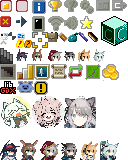
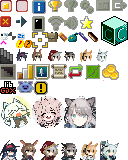
와드랑 아이템
ㅇㅇ

Changed region(s): [[0.5938, 0.3125, 0.8438, 0.4062], [0.0, 0.25, 0.0625, 0.2812]]

diff --git a/Arrrknights/core/src/main/java/com/shatteredpixel/shatteredpixeldungeon/sprites/WardSprite.java b/Arrrknights/core/src/main/java/com/shatteredpixel/shatteredpixeldungeon/sprites/WardSprite.java
@@ -20,22 +20,22 @@ public class WardSprite extends MobSprite {
 		texture(Assets.Sprites.WARDS);
 
 		tierIdles[1] = new Animation( 1, true );
-		tierIdles[1].frames(texture.uvRect(0, 0, 9, 10));
+		tierIdles[1].frames(texture.uvRect(0, 0, 32, 32));
 
 		tierIdles[2] = new Animation( 1, true );
-		tierIdles[2].frames(texture.uvRect(10, 0, 21, 12));
+		tierIdles[2].frames(texture.uvRect(32, 0, 64, 32));
 
 		tierIdles[3] = new Animation( 1, true );
-		tierIdles[3].frames(texture.uvRect(22, 0, 37, 16));
+		tierIdles[3].frames(texture.uvRect(64, 0, 96, 32));
 
 		tierIdles[4] = new Animation( 1, true );
-		tierIdles[4].frames(texture.uvRect(38, 0, 44, 13));
+		tierIdles[4].frames(texture.uvRect(96, 0, 128, 32));
 
 		tierIdles[5] = new Animation( 1, true );
-		tierIdles[5].frames(texture.uvRect(45, 0, 51, 15));
+		tierIdles[5].frames(texture.uvRect(128, 0, 160, 32));
 
 		tierIdles[6] = new Animation( 1, true );
-		tierIdles[6].frames(texture.uvRect(52, 0, 60, 15));
+		tierIdles[6].frames(texture.uvRect(160, 0, 192, 32));
 
 	}
 
